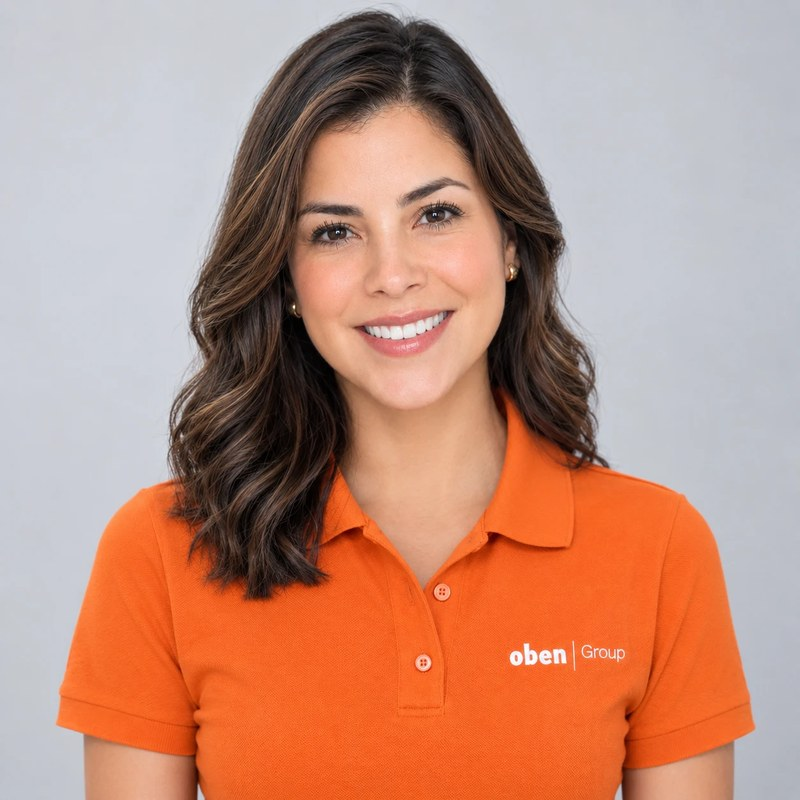
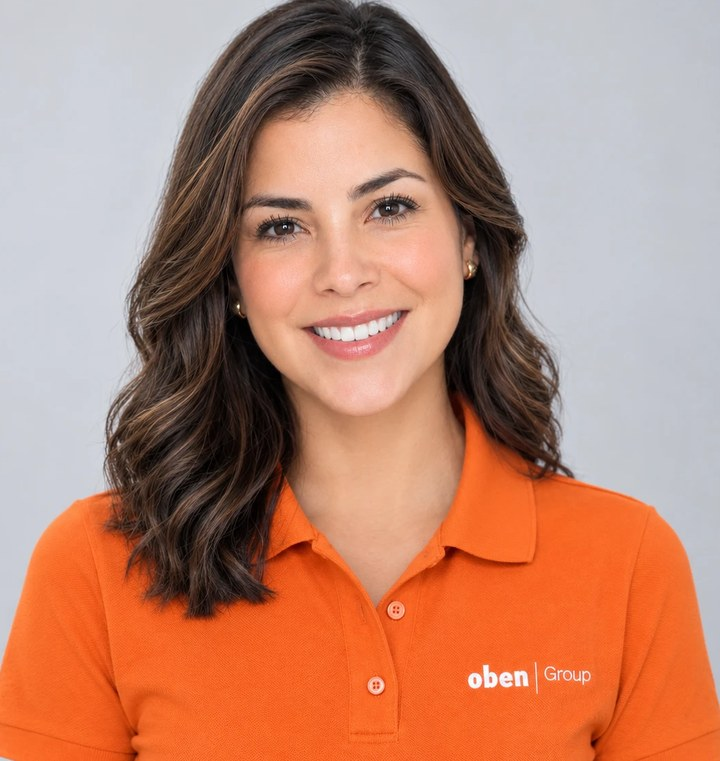
feat(mia): respuestas en Markdown, cualquier idioma, MIA grande con polo y firma Paradixe
- Las respuestas de MIA se renderizan (negritas, listas, tablas) en vez de
  mostrar asteriscos; react-markdown sin HTML crudo.
- MIA responde en el idioma en que le escriben.
- Boton flotante grande con el busto de MIA (polo naranja + logo Oben) y su
  nombre; foto completa en la bienvenida del chat.
- "made by Paradixe" abajo a la derecha en todas las pantallas, con enlace a
  paradixe.xyz (mismo diseno que EVA BPO).

diff --git a/frontend/src/components/layout/EvaWidget.tsx b/frontend/src/components/layout/EvaWidget.tsx
@@ -6,6 +6,8 @@ import { api } from '@/lib/api';
 import type { MiaAccion, MiaTurno } from '@/types';
 import { X, Send, Loader2, Download, ArrowRight, RotateCcw } from 'lucide-react';
 import { OMark } from '@/components/icons/OMark';
+import ReactMarkdown, { type Components } from 'react-markdown';
+import remarkGfm from 'remark-gfm';
 
 interface ChatMessage {
   role: 'user' | 'eva';
@@ -87,20 +89,32 @@ export function EvaWidget() {
 
   return (
     <>
-      {/* Floating bubble */}
+      {/* Botón flotante: foto grande + nombre, encima de la firma "made by Paradixe". */}
       {!open && (
         <button
           onClick={() => setOpen(true)}
-          className="fixed bottom-6 right-6 z-50 w-14 h-14 rounded-full bg-[#F47735] hover:bg-[#E5641F] text-white shadow-lg flex items-center justify-center transition"
+          className="fixed bottom-12 right-5 z-50 w-[150px] rounded-2xl overflow-hidden bg-[#F47735] hover:bg-[#E5641F] text-white shadow-2xl ring-2 ring-white transition hover:scale-[1.03]"
           title="Hablar con MIA"
         >
-          <MiaAvatar className="w-14 h-14" fallback={<OMark className="w-7 h-7" />} />
+          {/* Busto: se ve el polo naranja con el logo de Oben. */}
+          <span className="block w-[150px] h-[150px] bg-white/20">
+            <MiaAvatar
+              src="/mia-busto.jpg"
+              shape="rounded-none"
+              className="w-[150px] h-[150px]"
+              fallback={<span className="w-full h-full flex items-center justify-center"><OMark className="w-12 h-12" /></span>}
+            />
+          </span>
+          <span className="block px-3 py-2 text-left leading-tight">
+            <span className="block text-lg font-bold tracking-wide">MIA</span>
+            <span className="block text-[11px] text-white/90">¿En qué te ayudo?</span>
+          </span>
         </button>
       )}
 
       {/* Chat panel */}
       {open && (
-        <div className="fixed bottom-6 right-6 z-50 w-[26rem] max-w-[calc(100vw-3rem)] h-[36rem] max-h-[calc(100vh-6rem)] bg-white rounded-2xl shadow-2xl border border-gray-200 flex flex-col overflow-hidden">
+        <div className="fixed bottom-12 right-5 z-50 w-[27rem] max-w-[calc(100vw-2.5rem)] h-[42rem] max-h-[calc(100vh-5rem)] bg-white rounded-2xl shadow-2xl border border-gray-200 flex flex-col overflow-hidden">
           {verFoto && (
             <button
               onClick={() => setVerFoto(false)}
@@ -115,7 +129,7 @@ export function EvaWidget() {
           <div className="bg-[#F47735] text-white px-4 py-3 flex items-center justify-between">
             <div className="flex items-center gap-2">
               <button onClick={() => setVerFoto(true)} title="Ver foto de MIA" className="rounded-full">
-                <MiaAvatar className="w-9 h-9 ring-2 ring-white/60" fallback={<OMark className="w-5 h-5" />} />
+                <MiaAvatar className="w-12 h-12 ring-2 ring-white/80" fallback={<OMark className="w-6 h-6" />} />
               </button>
               <div>
                 <p className="font-semibold text-sm leading-tight">MIA</p>
@@ -138,15 +152,27 @@ export function EvaWidget() {
           </div>
 
           <div className="flex-1 overflow-y-auto p-4 space-y-3 bg-gray-50">
+            {messages.length === 1 && (
+              <div className="flex justify-center">
+                <MiaAvatar
+                  src="/mia-completa.jpg"
+                  shape="rounded-2xl"
+                  className="w-[15rem] h-auto shadow-md ring-1 ring-black/5"
+                  fallback={null}
+                />
+              </div>
+            )}
             {messages.map((m, i) => (
               <div key={i} className={`flex flex-col ${m.role === 'user' ? 'items-end' : 'items-start'}`}>
-                <div
-                  className={`max-w-[88%] rounded-xl px-3 py-2 text-sm whitespace-pre-wrap ${
-                    m.role === 'user' ? 'bg-[#F47735] text-white' : 'bg-white text-gray-800 border border-gray-200'
-                  }`}
-                >
-                  {m.text}
-                </div>
+                {m.role === 'user' ? (
+                  <div className="max-w-[88%] rounded-xl px-3 py-2 text-sm whitespace-pre-wrap bg-[#F47735] text-white">
+                    {m.text}
+                  </div>
+                ) : (
+                  <div className="max-w-[92%] rounded-xl px-3 py-2 text-sm bg-white text-gray-800 border border-gray-200 break-words">
+                    <MiaMarkdown text={m.text} />
+                  </div>
+                )}
                 {m.acciones && m.acciones.length > 0 && (
                   <div className="mt-1.5 flex flex-col gap-1.5 max-w-[88%]">
                     {m.acciones.map((a, j) => (
@@ -222,6 +248,47 @@ export function EvaWidget() {
   );
 }
 
+/**
+ * Las respuestas de MIA vienen en Markdown (negritas, listas, tablas): se
+ * renderizan en vez de mostrar los asteriscos. react-markdown no interpreta
+ * HTML crudo, así que el texto del modelo nunca inyecta marcado.
+ */
+const MD_COMPONENTS: Components = {
+  p: ({ children }) => <p className="my-1.5 first:mt-0 last:mb-0 leading-relaxed">{children}</p>,
+  strong: ({ children }) => <strong className="font-semibold text-gray-900">{children}</strong>,
+  ul: ({ children }) => <ul className="my-1.5 pl-4 list-disc space-y-0.5 marker:text-[#F47735]">{children}</ul>,
+  ol: ({ children }) => <ol className="my-1.5 pl-5 list-decimal space-y-0.5 marker:text-gray-500">{children}</ol>,
+  li: ({ children }) => <li className="leading-snug">{children}</li>,
+  h1: ({ children }) => <p className="mt-2 mb-1 first:mt-0 font-bold text-gray-900">{children}</p>,
+  h2: ({ children }) => <p className="mt-2 mb-1 first:mt-0 font-bold text-gray-900">{children}</p>,
+  h3: ({ children }) => <p className="mt-2 mb-1 first:mt-0 font-semibold text-gray-900">{children}</p>,
+  h4: ({ children }) => <p className="mt-2 mb-1 first:mt-0 font-semibold text-gray-900">{children}</p>,
+  a: ({ children, href }) => (
+    <a href={href} target="_blank" rel="noopener noreferrer" className="text-[#C4521A] underline">
+      {children}
+    </a>
+  ),
+  code: ({ children }) => <code className="px-1 py-0.5 rounded bg-gray-100 text-[0.85em] font-mono">{children}</code>,
+  pre: ({ children }) => <pre className="my-1.5 p-2 rounded bg-gray-100 overflow-x-auto text-xs">{children}</pre>,
+  hr: () => <hr className="my-2 border-gray-200" />,
+  blockquote: ({ children }) => <blockquote className="my-1.5 pl-2 border-l-2 border-[#F47735]/50 text-gray-600">{children}</blockquote>,
+  table: ({ children }) => (
+    <div className="my-1.5 overflow-x-auto">
+      <table className="w-full text-xs border-collapse">{children}</table>
+    </div>
+  ),
+  th: ({ children }) => <th className="px-2 py-1 text-left font-semibold bg-orange-50 border border-gray-200">{children}</th>,
+  td: ({ children }) => <td className="px-2 py-1 border border-gray-200 align-top">{children}</td>,
+};
+
+function MiaMarkdown({ text }: { text: string }) {
+  return (
+    <ReactMarkdown remarkPlugins={[remarkGfm]} components={MD_COMPONENTS}>
+      {text}
+    </ReactMarkdown>
+  );
+}
+
 /** Motivo legible de un error de descarga (con responseType 'blob' el JSON del backend llega como Blob). */
 async function motivo(err: unknown): Promise<string> {
   const data = (err as { response?: { data?: unknown } })?.response?.data;
@@ -241,11 +308,21 @@ async function motivo(err: unknown): Promise<string> {
  * Foto de MIA (`public/mia.jpg`). Mientras el archivo no exista se muestra el
  * símbolo de Oben — la ventana nunca queda con una imagen rota.
  */
-function MiaAvatar({ className = '', fallback }: { className?: string; fallback: React.ReactNode }) {
+function MiaAvatar({
+  className = '',
+  fallback,
+  src = '/mia.jpg',
+  shape = 'rounded-full',
+}: {
+  className?: string;
+  fallback: React.ReactNode;
+  src?: string;
+  shape?: string;
+}) {
   const [ok, setOk] = useState(true);
   if (!ok) return <>{fallback}</>;
   return (
     // eslint-disable-next-line @next/next/no-img-element
-    <img src="/mia.jpg" alt="MIA" onError={() => setOk(false)} className={`rounded-full object-cover ${className}`} />
+    <img src={src} alt="MIA" onError={() => setOk(false)} className={`${shape} object-cover ${className}`} />
   );
 }

diff --git a/backend/src/modules/eva/eva.service.ts b/backend/src/modules/eva/eva.service.ts
@@ -82,7 +82,11 @@ Cómo trabajas:
 - No puedes enviar facturas, enviar liquidaciones a Oben ni modificar datos. Si te lo piden, explica que se hace desde la pantalla correspondiente y ofrece abrirla.
 - Estado actual de la facturación: Oben Xmart genera el borrador de factura en PDF y lo envía por correo a Facturación; la factura electrónica DIAN todavía no se emite de verdad (el CUFE es simulado) hasta integrar la API de facturación de Oben.
 
-Responde en español, breve y directo, como una colega experta. Fechas y horas en hora de Colombia, tal como vienen de las herramientas.`;
+Idioma: responde SIEMPRE en el mismo idioma en que te escribe el usuario (español, inglés, portugués, chino o cualquier otro); si no es claro, en español. Los nombres de campos, clientes y productos que vienen de las herramientas se dejan tal cual.
+
+Formato: tu respuesta se muestra en un chat pequeño que interpreta Markdown. Usa negritas, listas cortas y, solo si hay varias filas comparables, una tabla de pocas columnas. No uses títulos grandes (#) ni bloques de código para datos.
+
+Responde breve y directo, como una colega experta. Fechas y horas en hora de Colombia, tal como vienen de las herramientas.`;
 
 /**
  * MIA: asistente de Oben Xmart sobre Claude Haiku (Anthropic) con

diff --git a/frontend/src/components/layout/Sidebar.tsx b/frontend/src/components/layout/Sidebar.tsx
@@ -94,7 +94,7 @@ export function Sidebar() {
           {/* min-h-0 + overflow: con 17 opciones el menú no cabe en pantallas
               de laptop y las últimas (Usuarios, Perfiles) quedaban fuera de
               la ventana sin forma de llegar a ellas (reporte 2026-10-01). */}
-          <nav className="flex-1 min-h-0 overflow-y-auto px-4 py-4 space-y-0.5">
+          <nav className="sidebar-scroll flex-1 min-h-0 overflow-y-auto px-4 py-4 space-y-0.5">
             {items.map((item) => {
               const isActive = pathname === item.href || pathname?.startsWith(`${item.href}/`);
               const Icon = item.icon;
@@ -132,9 +132,14 @@ export function Sidebar() {
               <LogOut className="w-5 h-5" />
               <span>Cerrar Sesión</span>
             </button>
-            <p className="mt-3 px-2 text-[10px] text-white/40 text-center">
+            <a
+              href="https://www.paradixe.xyz/"
+              target="_blank"
+              rel="noopener"
+              className="block mt-3 px-2 text-[10px] text-white/60 text-center hover:text-white transition"
+            >
               Oben Xmart by Paradixe
-            </p>
+            </a>
           </div>
         </div>
       </aside>

diff --git a/frontend/src/components/ParadixeFirma.tsx b/frontend/src/components/ParadixeFirma.tsx
@@ -1,0 +1,20 @@
+/**
+ * Firma "made by Paradixe" abajo a la derecha en TODAS las pantallas (también
+ * el login): todo software de Paradixe la lleva y al presionarla abre
+ * paradixe.xyz (Hernán, 2026-10-01 — mismo diseño que EVA BPO).
+ */
+export function ParadixeFirma() {
+  return (
+    <a
+      href="https://www.paradixe.xyz/"
+      target="_blank"
+      rel="noopener"
+      aria-label="Made by Paradixe (abre paradixe.xyz)"
+      className="fixed right-3.5 bottom-2.5 z-40 inline-flex items-center gap-[7px] px-[11px] py-1.5 rounded-full bg-slate-900/75 backdrop-blur-sm border border-slate-400/20 text-[10.5px] leading-none font-semibold tracking-[.06em] text-slate-300/90 no-underline transition hover:bg-slate-900/95 hover:border-slate-400/45 hover:text-white print:hidden"
+    >
+      <span>made by</span>
+      {/* eslint-disable-next-line @next/next/no-img-element */}
+      <img src="/paradixe-logo.png" alt="Paradixe" className="h-[11px] w-auto block" />
+    </a>
+  );
+}

diff --git a/frontend/src/app/layout.tsx b/frontend/src/app/layout.tsx
@@ -5,6 +5,7 @@ import { Geist, Geist_Mono } from "next/font/google";
 import "./globals.css";
 import { useAuthStore } from '@/store/auth';
 import { LicenseGate } from '@/components/LicenseGate';
+import { ParadixeFirma } from '@/components/ParadixeFirma';
 
 const geistSans = Geist({
   variable: "--font-geist-sans",
@@ -44,6 +45,7 @@ export default function RootLayout({
         <AuthInitializer>
           <LicenseGate>{children}</LicenseGate>
         </AuthInitializer>
+        <ParadixeFirma />
       </body>
     </html>
   );

diff --git a/frontend/src/app/globals.css b/frontend/src/app/globals.css
@@ -47,6 +47,12 @@ textarea::placeholder {
   color: #6b7280;
 }
 
+/* Scroll del menú lateral: delgado y blanco translúcido sobre el naranja. */
+.sidebar-scroll {
+  scrollbar-width: thin;
+  scrollbar-color: rgba(255, 255, 255, 0.45) transparent;
+}
+
 body {
   background: var(--background);
   color: var(--foreground);
